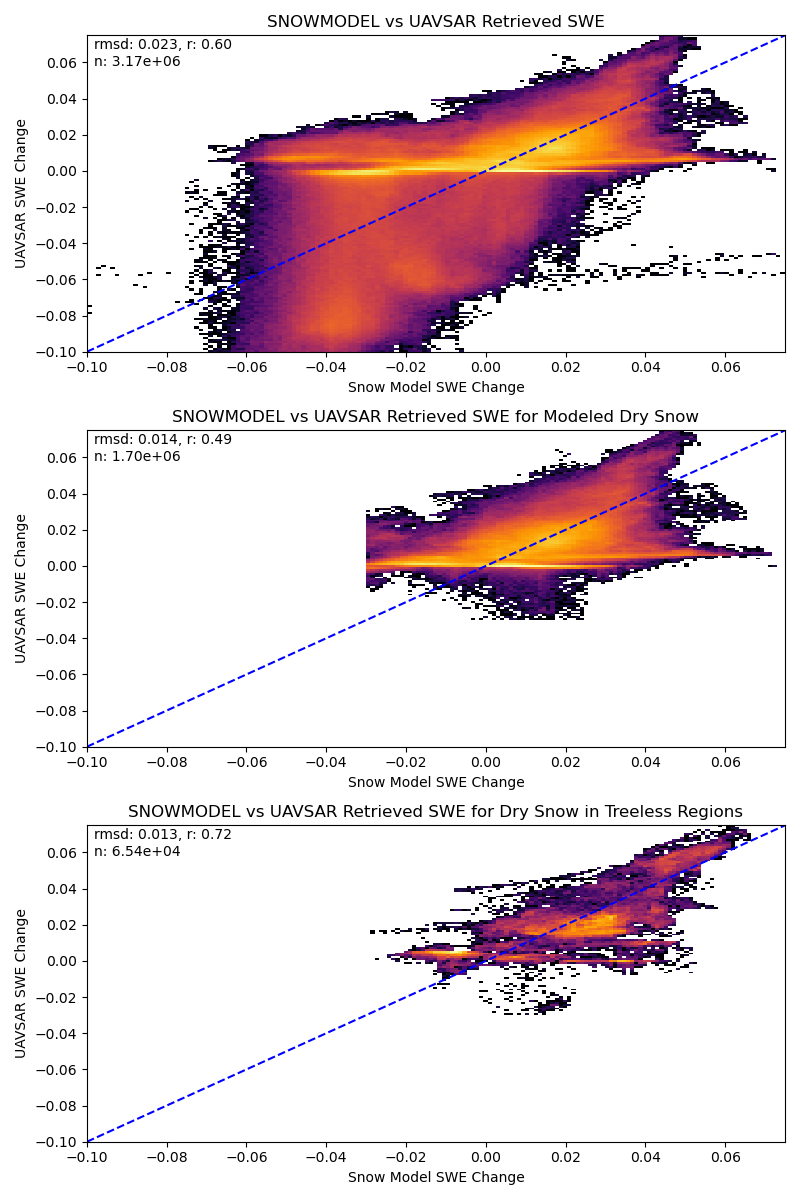
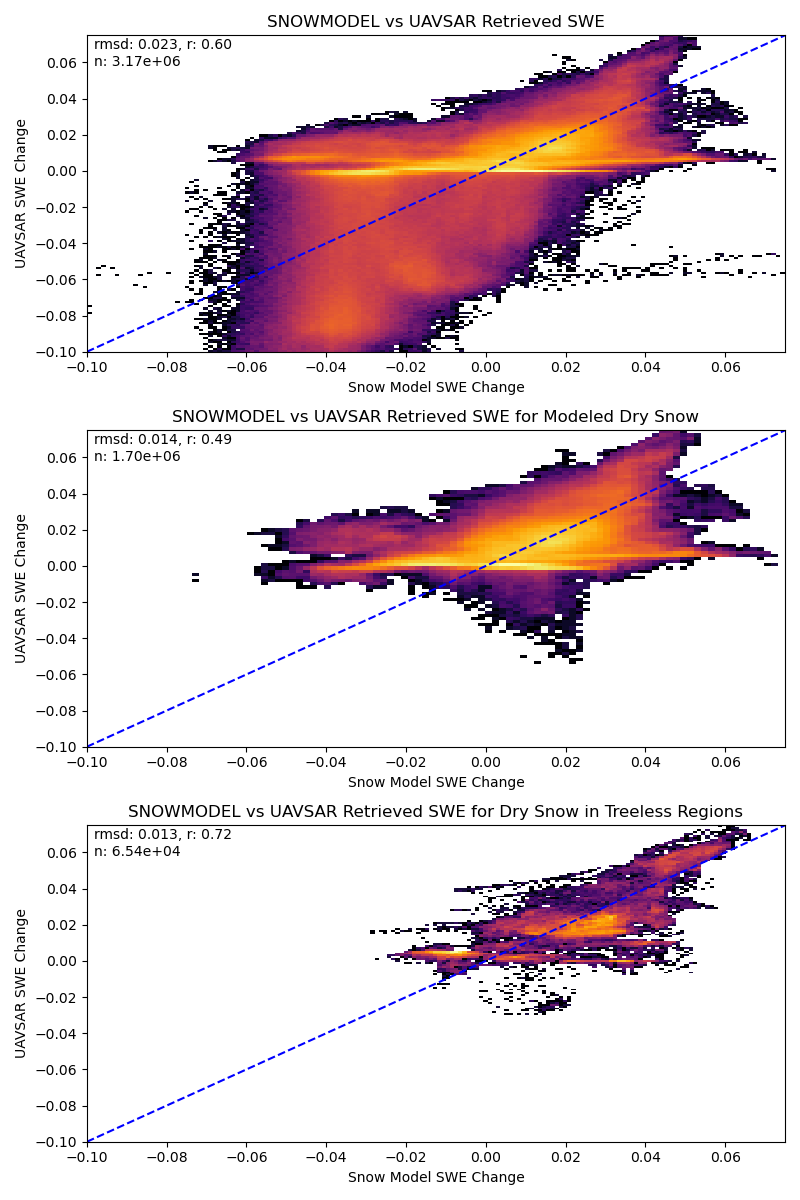
scatter

Changed region(s): [[0.3125, 0.3392, 0.9375, 0.555]]

diff --git a/src/compare/model/model_scatter.py b/src/compare/model/model_scatter.py
@@ -83,7 +83,7 @@ for i, (ax, [xs, ys]) in enumerate(zip(axes, [[xs, ys], [xs_dry, ys_dry], [xs_be
         ax.set_xlim(-0.1, 0.075)
         ax.set_ylim(-0.1, 0.075)
     elif i == 1:
-        ax.hist2d(xs, ys, bins = 100, norm=mpl.colors.LogNorm(), cmap=mpl.cm.inferno, range = [[-0.03, 0.075],[-0.03, 0.075]])
+        ax.hist2d(xs, ys, bins = 100, norm=mpl.colors.LogNorm(), cmap=mpl.cm.inferno, range = [[-0.1, 0.075],[-0.1, 0.075]])
         ax.set_xlim(-0.1, 0.075)
         ax.set_ylim(-0.1, 0.075)
     else:
